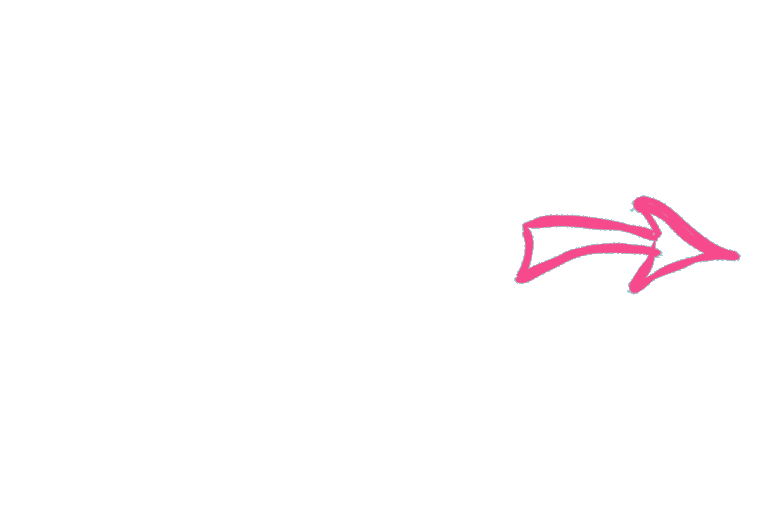
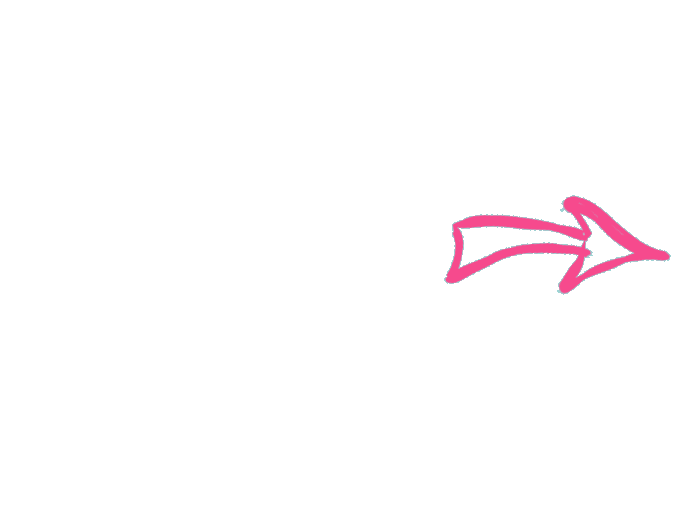
small opti

Changed region(s): [[0.6318, 0.375, 0.9628, 0.5938]]

diff --git a/resources/sass/app.scss b/resources/sass/app.scss
@@ -11,30 +11,6 @@ $loading-spinner-color: #f64e8f;
 
 // exclude components that app is not using
 @import 'sencha-touch/default';
-//@import 'sencha-touch/default/src/Class';
-//@import 'sencha-touch/default/src/Button';
-//@import 'sencha-touch/default/src/Panel';
-//@import 'sencha-touch/default/src/Sheet';
-//@import 'sencha-touch/default/src/MessageBox';
-//@import 'sencha-touch/default/src/Toolbar';
-//@import 'sencha-touch/default/src/carousel/Carousel';
-//@import 'sencha-touch/default/src/form/Panel';
-//@import 'sencha-touch/default/src/form/FieldSet';
-//@import 'sencha-touch/default/src/field/Field';
-//@import 'sencha-touch/default/src/field/Checkbox';
-// @import 'sencha-touch/default/src/field/Radio';
-// @import 'sencha-touch/default/src/field/Search';
-//@import 'sencha-touch/default/src/field/Select';
-//@import 'sencha-touch/default/src/field/Slider';
-//@import 'sencha-touch/default/src/field/Spinner';
-// @import 'sencha-touch/default/src/field/TextArea';
-// @import 'sencha-touch/default/src/dataview/IndexBar';
-//@import 'sencha-touch/default/src/dataview/List';
-//@import 'sencha-touch/default/src/picker/Picker';
-//@import 'sencha-touch/default/src/plugin/ListPaging';
-//@import 'sencha-touch/default/src/plugin/PullRefresh';
-//@import 'sencha-touch/default/src/slider/Slider';
-//@import 'sencha-touch/default/src/slider/Toggle';
 @import 'sencha-touch/default/src/tab/Panel';
 
 
@@ -72,40 +48,26 @@ color: #fff;
 display: none !important;
 }
 
-.x-list .x-list-item.x-item-selected.x-list-item-tpl {
+
+.x-list .x-list-item.x-item-pressed, .x-list .x-list-item.x-item-selected.x-list-item-tpl {
 background-color: #43c2c2 !important;
-}
-
-.x-list .x-list-item.x-item-selected .x-dock-horizontal, .x-list .x-list-item.x-item-selected.x-list-item-tpl {
-background-color: #43c2c2 !important;
-}
-
-.x-list .x-list-item.x-item-pressed {
-background-color: #43c2c2 !important;
-}
-
-
-.x-tab .x-button-icon.sound:before, .x-button .x-button-icon.sound:before {
-position: relative !important;
 }
 
 .x-list .x-list-item {
 color: #FFF !important;
 text-transform: uppercase !important;
 float: left;
-padding: 20px;
+padding: 0 !important;
 margin: 20px 0;
 text-align: center !important;
 width: 192px;
 }
 
-.x-list .x-list-item.x-list-item-tpl .x-innerhtml {
- padding: 0; 
+.x-tab .x-button-icon.sound:before, .x-button .x-button-icon.sound:before {
+position: relative !important;
 }
 
-.x-list-normal .x-list-item.x-list-item-tpl {
-border: none;
-}
+
     
 .tekstscreen {
       background-color: #ffffff !important;
@@ -169,19 +131,15 @@ background: #7bcdca url() center center no-repeat;
     to   {margin-top:0px; margin-bottom:0px}
 }
 
-.swipe-animation {-webkit-animation: swipeanimation 1s steps(30) 5 alternate;}
+.swipe-animation {-webkit-animation: swipeanimation 1s steps(30) 5 alternate; width: 678px; height: 512px;}
 @-webkit-keyframes swipeanimation {
   -webkit-animation-timing-function: linear;
-   0% {margin-left:0px;}
-   100% {margin-left:70px;}
+   0% {padding-left:0px;}
+   100% {padding-left:70px;}
 }
    
 #hometekst {position: fixed; bottom: 200px; left: 120px;}   
     
-.thumbpie {
-  float: left;
-  padding:0 0 10px 0;
-  }
 
 .x-tabbar-dark {
     border-top-color: #f64e8f !important;

diff --git a/app.js b/app.js
@@ -52,15 +52,19 @@ Ext.application({
                     },
                     items: [{
                         flex: 1,
-                        html: '<div class="swipe-animation"><img src="resources/images/swipe-left.png" width="100%"></div>'
+                        html: '<div class="swipe-animation"><img src="resources/images/swipe-left.png"></div>'
                     }, {
                         flex: 1,                        
                         html: '<div class="sun-animation"><img src="resources/images/home-logo-kleiner.png" width="100%"></div>'
                     }]
                 });
-                for (var i = 0; i < objData.length; i++) {
+                
+                var totalcount = objData.length;
+                for (var i = 0; i < totalcount; i++) {
                 
 //             EXPERIMENT    if (i == objData.length-1){i = 0} try to start from the beginning when end of list is reached
+                
+                	var objectname = objData[i].plaatje;
                 
                     var itemTmpObj = {
  //                       xtype: 'panel',   not needed
@@ -71,7 +75,7 @@ Ext.application({
                         },
                         items: [{
                             xtype: 'image',
-                            src: 'resources/images/' + objData[i].plaatje + '.png',
+                            src: 'resources/images/' + objectname + '.png',
                             width: 768,
                             height: 436,
                         	flex: 1
@@ -79,7 +83,7 @@ Ext.application({
                         {
                 			xtype: 'button',
  	             			cls: 'audioButton',
-                			text: objData[i].plaatje,
+                			text: objectname,
 					            handler: function () {
 					                var container = this.getParent(),
 					                audio = container.down('audio');
@@ -88,12 +92,12 @@ Ext.application({
 	        				},
                         {
                         	xtype: 'audio',
-                        	url: 'resources/images/' + objData[i].plaatje + '.mp3',
+                        	url: 'resources/images/' + objectname + '.mp3',
                         	hidden: true,                     	
 						},                       
                         {
                             xtype: 'video',
-                            url: 'resources/images/' + objData[i].plaatje + '.mp4',
+                            url: 'resources/images/' + objectname + '.mp4',
                             autoresume: true,
                             docked:'bottom',
                             enableControls: false,

diff --git a/app/view/Card.js b/app/view/Card.js
@@ -20,7 +20,8 @@ Ext.define('Test.view.Card', {
                 
 
 // this makes the previous playing video stop in carousel when sliding to the next
-                for (var i = 0; i < videoObjs.length; i++) {
+                var total = videoObjs.length;
+                for (var i = 0; i < total; i++) {
                     if (videoObjs[i].paused == false && activeIndex != i) {
                         videoObjs[i].pause();
                     }

diff --git a/app/view/Gebarenlijst.js b/app/view/Gebarenlijst.js
@@ -10,7 +10,7 @@ Ext.define('Test.view.Gebarenlijst', {
 
         
         store: Ext.create('Test.store.Gebaar'),
-        itemTpl: '<img src="resources/images/{plaatje}-klein.png" class="thumbpie"></img><span><br /><br />{plaatje}</span>',
+        itemTpl: '<img src="resources/images/{plaatje}-klein.png"></img><span><br /><br />{plaatje}</span>',
         onItemDisclosure: true
     }
 });
